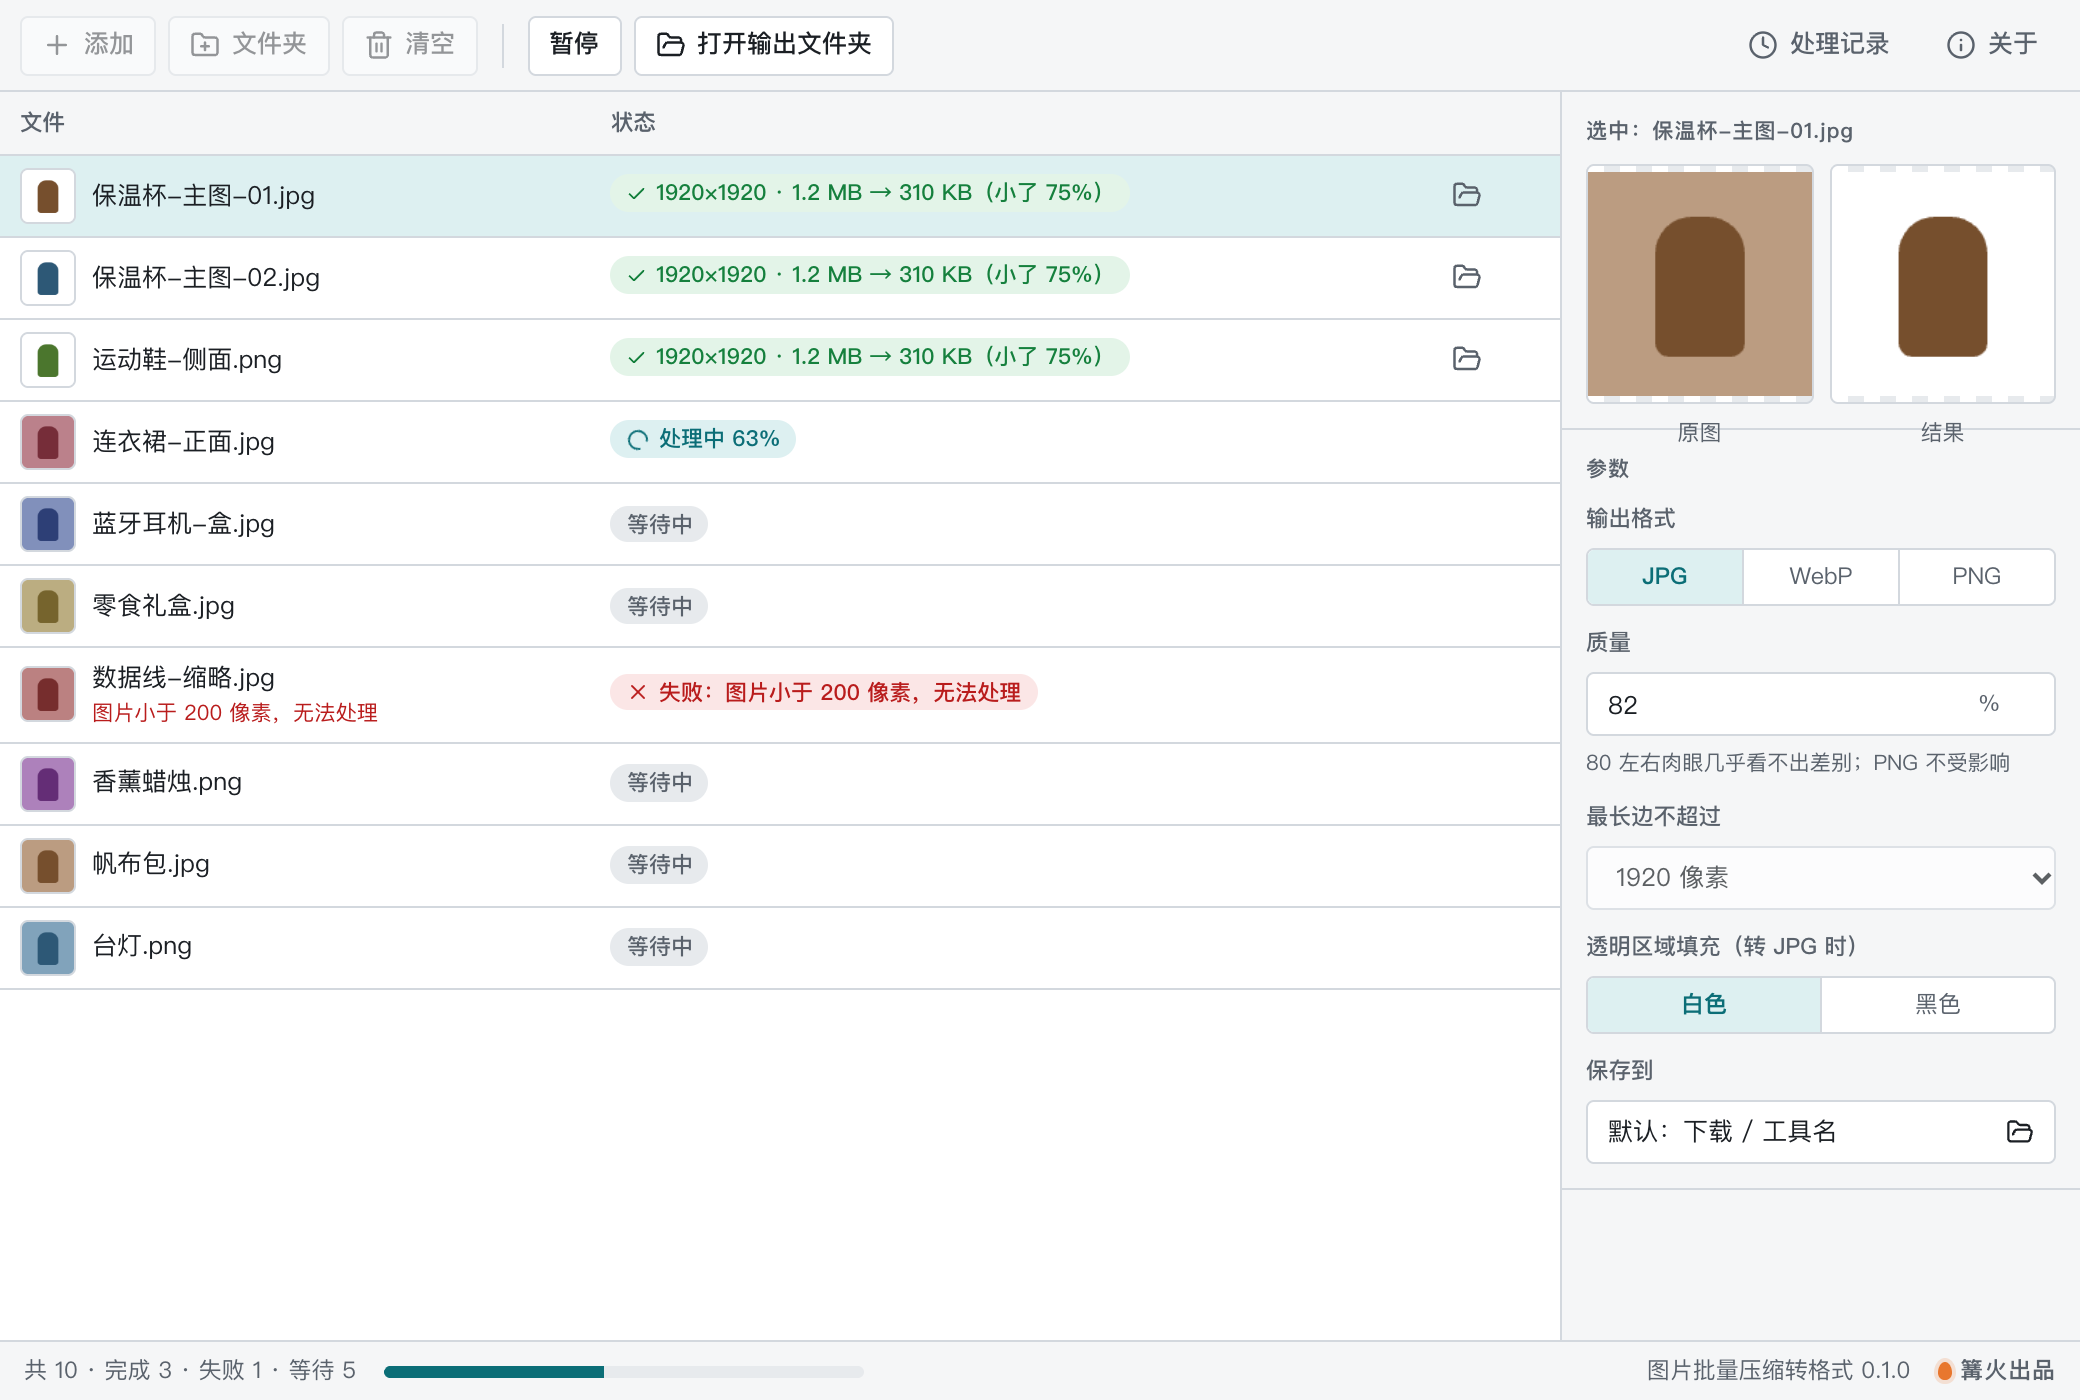
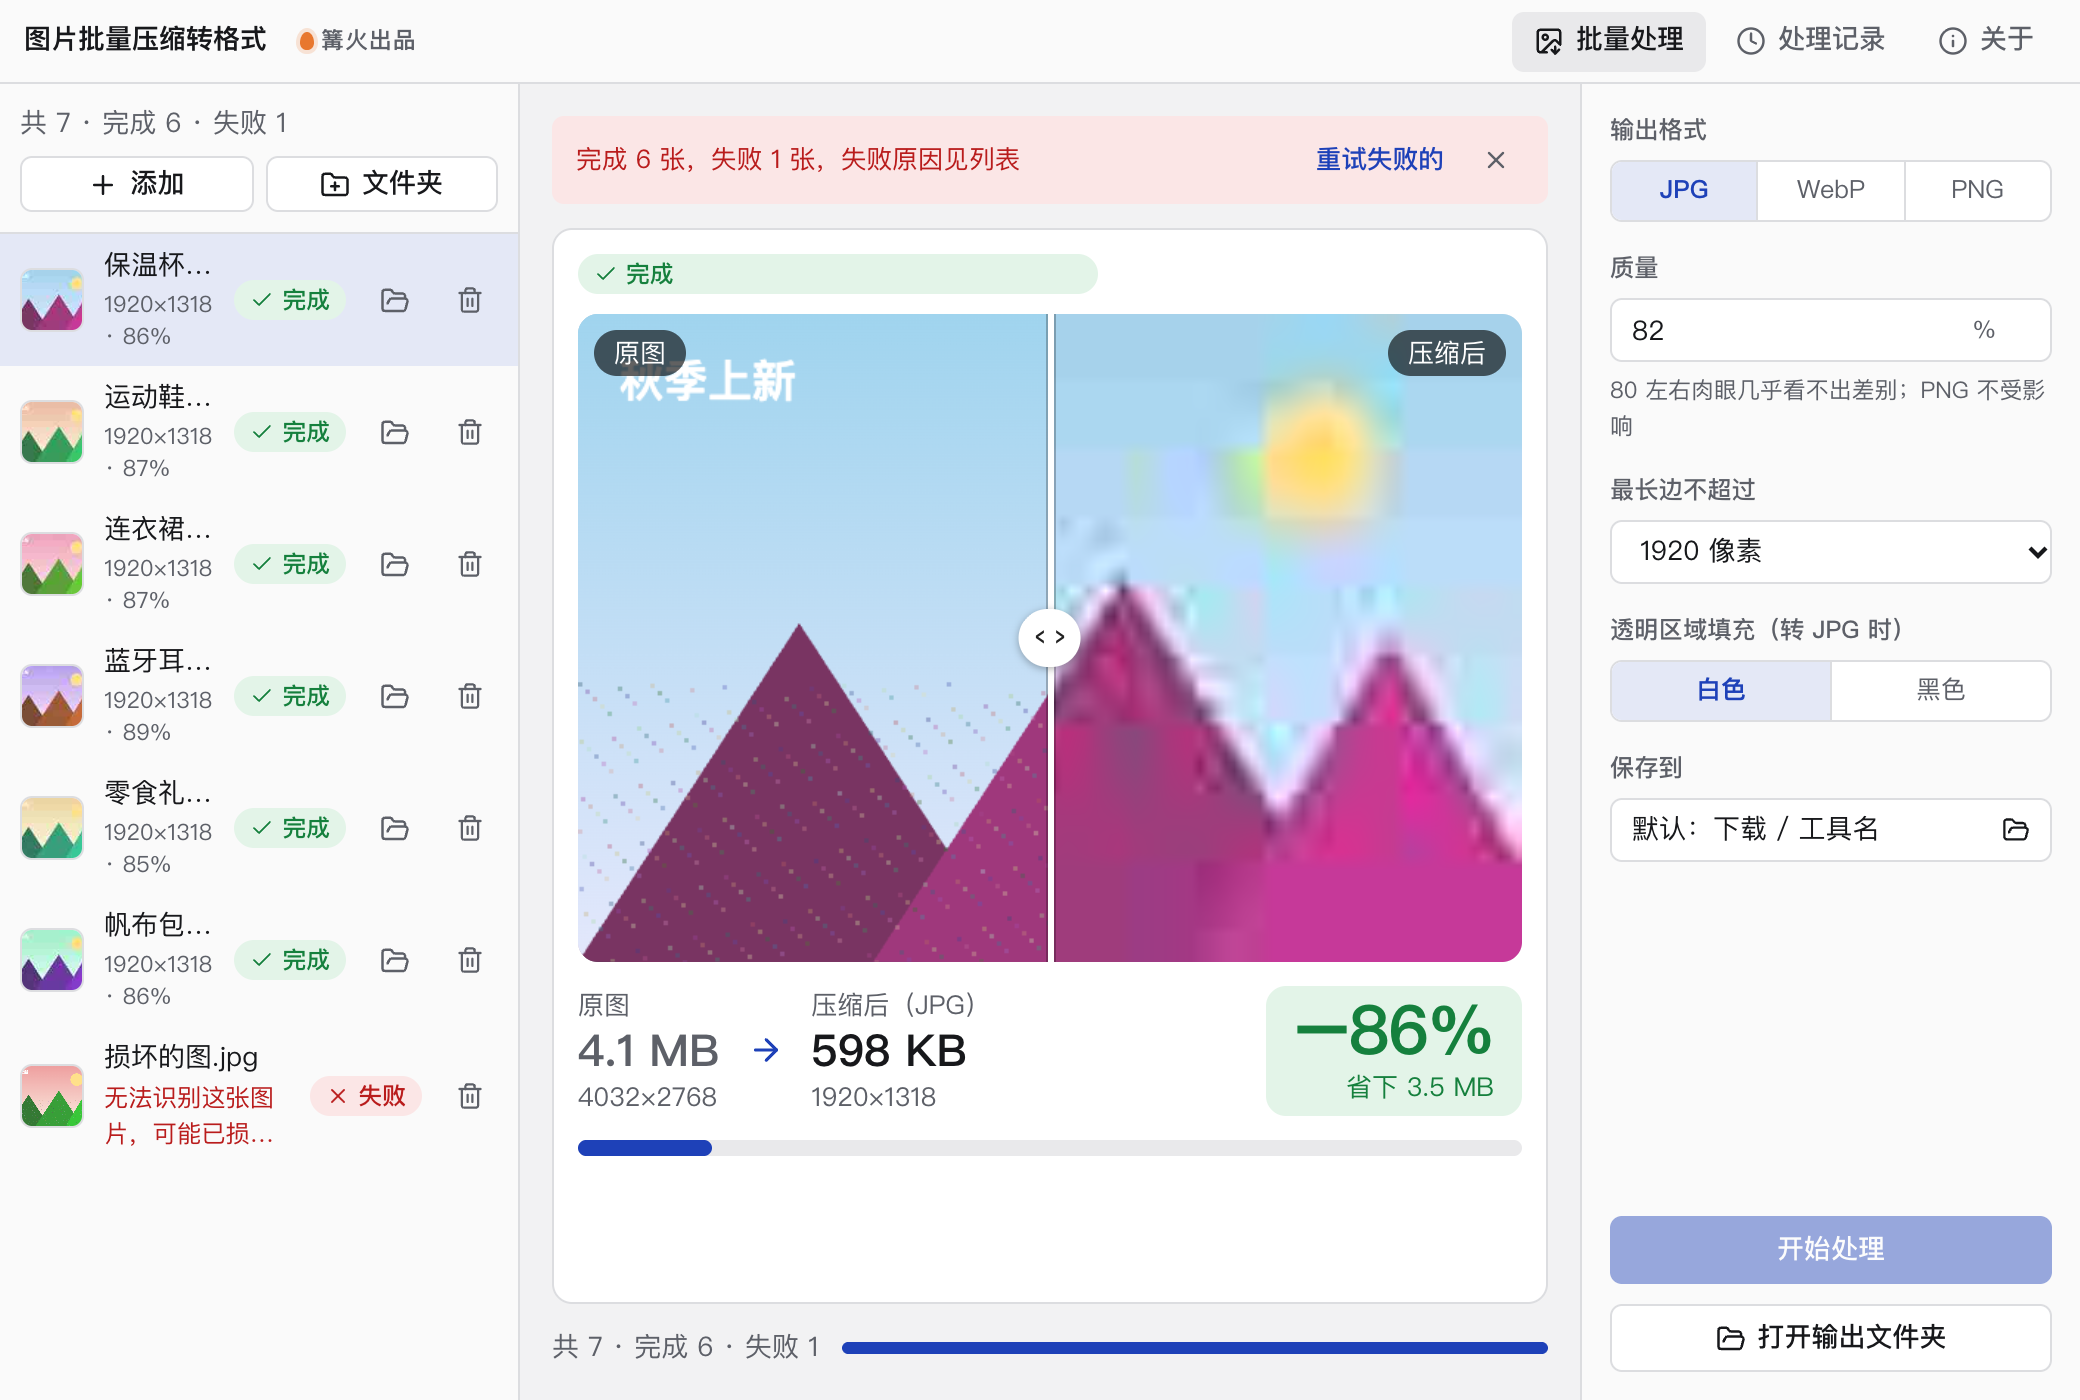
打磨 0.2.0：左右拖动对比原图与压缩后、大字显示省了多少、新空状态

diff --git a/src/tool/tool.css b/src/tool/tool.css
@@ -1,0 +1,42 @@
+/* 图片批量压缩：左右拖动对比 + 大字省了多少；只用 kit.css 变量，适配亮暗色 */
+.ic-empty { display: grid; justify-items: center; gap: 14px; padding: 20px; max-width: 560px; margin: auto; text-align: center; font-size: 14px; }
+.ic-empty > svg { width: 100%; max-width: 480px; height: auto; }
+.ic-photo { fill: var(--chip); stroke: var(--line-strong); stroke-width: 1.5; }
+.ic-photo.big { fill: var(--primary-soft); stroke: var(--primary); }
+.ic-sun { fill: var(--warn); }
+.ic-hill { fill: var(--primary); opacity: .55; }
+.ic-arrow { fill: none; stroke: var(--primary); stroke-width: 3; stroke-linecap: round; stroke-linejoin: round; }
+.ic-cap { fill: var(--primary); font-size: 14px; font-weight: 700; }
+.ic-size { fill: var(--muted); font-size: 14px; font-weight: 600; }
+.ic-size.big { fill: var(--ink); font-size: 16px; font-weight: 700; }
+.ic-fmt rect { fill: var(--surface); stroke: var(--line-strong); }
+.ic-fmt text { fill: var(--ink); font-size: 13px; font-weight: 600; }
+.ic-knobs { list-style: none; margin: 0; padding: 0; display: grid; gap: 6px; width: 100%; max-width: 440px; text-align: left; }
+.ic-knobs li { display: grid; grid-template-columns: 20px 64px 1fr; align-items: center; gap: 8px; padding: 6px 12px; border-radius: min(var(--radius), 10px); background: var(--chip); }
+.ic-knobs svg { color: var(--primary); }
+.ic-knobs span { color: var(--muted); font-size: 13px; }
+.ic-title { margin: 4px 0 0; font-size: 20px; }
+.ic-act { margin: 0; display: inline-flex; align-items: center; gap: 6px; color: var(--muted); font-size: 13px; }
+
+.ic-res { display: grid; gap: 12px; width: 100%; min-width: 0; font-size: 14px; }
+.ic-cmp { position: relative; width: 100%; max-height: 52vh; border-radius: var(--radius-lg); overflow: hidden; background: var(--chip); user-select: none; margin: 0 auto; }
+.ic-img { position: absolute; inset: 0; width: 100%; height: 100%; object-fit: cover; display: block; }
+.ic-cmp > input[type=range] { position: absolute; inset: 0; width: 100%; height: 100%; opacity: 0; cursor: ew-resize; margin: 0; }
+.ic-handle { position: absolute; top: 0; bottom: 0; width: 3px; margin-left: -1.5px; background: #fff; box-shadow: 0 0 0 1px rgba(0,0,0,.25); pointer-events: none; transition: left 60ms linear; }
+.ic-handle::after { content: '‹ ›'; position: absolute; top: 50%; left: 50%; transform: translate(-50%, -50%); padding: 4px 8px; border-radius: 999px; background: #fff; color: #222; font-weight: 700; font-size: 14px; box-shadow: 0 1px 4px rgba(0,0,0,.3); white-space: nowrap; }
+.ic-tag { position: absolute; top: 8px; padding: 2px 10px; border-radius: 999px; background: rgba(0,0,0,.62); color: #fff; font-size: 13px; pointer-events: none; }
+.ic-tag.l { left: 8px; } .ic-tag.r { right: 8px; }
+
+.ic-stat { display: flex; flex-wrap: wrap; align-items: center; gap: 10px 14px; }
+.ic-from { display: grid; gap: 1px; }
+.ic-from small { color: var(--muted); font-size: 13px; }
+.ic-from b { font-size: 22px; line-height: 1.1; color: var(--muted); }
+.ic-from span { color: var(--muted); font-size: 13px; }
+.ic-from.now b { color: var(--ink); }
+.ic-to-arrow { color: var(--primary); flex: none; }
+.ic-save { margin-left: auto; display: grid; justify-items: end; padding: 4px 14px; border-radius: var(--radius-lg); background: var(--ok-soft); color: var(--ok); }
+.ic-save b { font-size: 34px; line-height: 1.1; font-weight: 800; letter-spacing: -.02em; }
+.ic-save small { font-size: 13px; }
+.ic-save.bad { background: var(--warn-soft); color: var(--warn); }
+.ic-bar { height: 8px; border-radius: 999px; background: var(--chip); overflow: hidden; }
+.ic-bar i { display: block; height: 100%; border-radius: 999px; background: var(--primary); transition: width 200ms ease; }

diff --git a/src/tool/preview.ts b/src/tool/preview.ts
@@ -1,0 +1,51 @@
+// 截图与预览用的示例数据（不会进入正式运行）
+import type { Row } from '../kit/runner';
+import type { Stat } from './Result';
+
+function scene(hue: number, q: number | null): string {
+  const c = document.createElement('canvas');
+  c.width = 640; c.height = 440;
+  const g = c.getContext('2d')!;
+  const sky = g.createLinearGradient(0, 0, 0, 440);
+  sky.addColorStop(0, `hsl(${hue} 70% 78%)`); sky.addColorStop(1, `hsl(${hue + 30} 80% 94%)`);
+  g.fillStyle = sky; g.fillRect(0, 0, 640, 440);
+  g.fillStyle = '#FFE08A'; g.beginPath(); g.arc(500, 100, 46, 0, 7); g.fill();
+  [[0, 330, 300], [200, 300, 340], [420, 340, 260]].forEach(([x, y, w], i) => {
+    g.fillStyle = `hsl(${hue + 120} ${40 + i * 8}% ${34 + i * 8}%)`;
+    g.beginPath(); g.moveTo(x, 440); g.lineTo(x + w / 2, y - 120); g.lineTo(x + w, 440); g.fill();
+  });
+  for (let i = 0; i < 700; i++) { // 细节噪点：压缩后会糊掉
+    g.fillStyle = `hsla(${hue + i * 7} 40% ${30 + (i % 50)}% / .35)`;
+    g.fillRect((i * 97) % 640, 250 + ((i * 53) % 190), 3, 3);
+  }
+  g.fillStyle = '#fff'; g.font = 'bold 30px sans-serif'; g.fillText('秋季上新', 28, 56);
+  if (q === null) return c.toDataURL('image/png');
+  const small = document.createElement('canvas');
+  small.width = 110; small.height = 76;
+  small.getContext('2d')!.drawImage(c, 0, 0, 110, 76);
+  return small.toDataURL('image/jpeg', q);
+}
+
+const files: [string, number, number, Row['status'], number][] = [
+  ['保温杯-主图-01.jpg', 4_280_000, 612_000, 'ok', 200],
+  ['运动鞋-侧面.png', 6_900_000, 880_000, 'ok', 20],
+  ['连衣裙-正面.jpg', 3_150_000, 420_000, 'ok', 340],
+  ['蓝牙耳机-盒.jpg', 2_700_000, 310_000, 'ok', 260],
+  ['零食礼盒.jpg', 5_100_000, 740_000, 'run', 40],
+  ['帆布包.jpg', 1_900_000, 0, 'wait', 150],
+  ['损坏的图.jpg', 12_000, 0, 'err', 0],
+];
+
+export const rows = (state: string): Row[] => state === 'empty' ? [] : files.map(([name, before, after, status, hue], i) => {
+  const st = state === 'done' && status !== 'err' ? 'ok' : status;
+  const stat: Stat = { before, after: after || Math.round(before * 0.14), sw: 4032, sh: 2768, w: 1920, h: 1318, format: 'jpg' };
+  return {
+    item: { id: `p${i}`, name, path: scene(hue, null), size: before },
+    status: st,
+    progress: st === 'run' ? 0.6 : st === 'ok' ? 1 : 0,
+    error: st === 'err' ? '无法识别这张图片，可能已损坏或格式不受支持' : undefined,
+    result: st === 'ok' ? { preview: scene(hue, 0.22), outputPath: `/示例/输出/${name}`, summary: `1920×1318 · ${Math.round((1 - stat.after / before) * 100)}%`, data: stat } : undefined,
+  };
+});
+export const params = {};
+export const notice = { kind: 'err' as const, text: '完成 6 张，失败 1 张，失败原因见列表' };

diff --git a/src/tool/Result.tsx b/src/tool/Result.tsx
@@ -1,0 +1,44 @@
+// 单张图片的压缩结果：原图与压缩后拖动对比，下方用大字显示省了多少
+import { useState } from 'react';
+import { ArrowRight } from 'lucide-react';
+import type { InputItem, ItemResult } from '../kit/types';
+import { fileSrc } from '../kit/platform';
+import { formatBytes } from './core';
+import './tool.css';
+
+export interface Stat { before: number; after: number; sw: number; sh: number; w: number; h: number; format: string }
+
+const FMT: Record<string, string> = { jpg: 'JPG', png: 'PNG', webp: 'WebP' };
+
+export function ResultBody({ item, result }: { item: InputItem; result: ItemResult }) {
+  const st = result.data as Stat | undefined;
+  const [pos, setPos] = useState(50);
+  const before = st?.before ?? item.size ?? 0;
+  const saved = st && before ? Math.round((1 - st.after / before) * 100) : null;
+  const orig = item.path;
+  const out = result.preview;
+  return (
+    <div className="ic-res">
+      {orig && out && (
+        <div className="ic-cmp" style={{ aspectRatio: st ? `${st.w} / ${st.h}` : '4 / 3' }}>
+          <img className="ic-img" src={fileSrc(out)} alt="压缩后" />
+          <img className="ic-img top" src={fileSrc(orig)} alt="原图" style={{ clipPath: `inset(0 ${100 - pos}% 0 0)` }} />
+          <span className="ic-tag l">原图</span>
+          <span className="ic-tag r">压缩后</span>
+          <span className="ic-handle" style={{ left: `${pos}%` }} aria-hidden="true" />
+          <input type="range" min={0} max={100} value={pos} aria-label="拖动对比原图和压缩后" onChange={(e) => setPos(Number(e.target.value))} />
+        </div>
+      )}
+      <div className="ic-stat">
+        <div className="ic-from"><small>原图</small><b className="k-num">{formatBytes(before)}</b>{st && <span className="k-num">{st.sw}×{st.sh}</span>}</div>
+        <ArrowRight size={18} className="ic-to-arrow" />
+        <div className="ic-from now"><small>压缩后{st ? `（${FMT[st.format] ?? st.format}）` : ''}</small><b className="k-num">{st ? formatBytes(st.after) : '—'}</b>{st && <span className="k-num">{st.w}×{st.h}</span>}</div>
+        <div className={`ic-save${saved !== null && saved <= 0 ? ' bad' : ''}`}>
+          <b className="k-num">{saved === null ? '' : saved > 0 ? `−${saved}%` : saved < 0 ? `+${-saved}%` : '0%'}</b>
+          <small>{saved === null ? result.summary : saved > 0 ? `省下 ${formatBytes(before - (st?.after ?? 0))}` : '没有变小'}</small>
+        </div>
+      </div>
+      {st && <div className="ic-bar" role="img" aria-label={`压缩后占原图的 ${100 - (saved ?? 0)}%`}><i style={{ width: `${Math.min(100, Math.max(2, (st.after / before) * 100))}%` }} /></div>}
+    </div>
+  );
+}

diff --git a/src/tool/Empty.tsx b/src/tool/Empty.tsx
@@ -1,0 +1,40 @@
+// 空状态：画出「一张大图 → 一张小图」，写清支持的格式和三个可调的东西
+import { Gauge, Maximize2, Repeat2, Upload } from 'lucide-react';
+import './tool.css';
+
+function Photo({ x, y, w, h, big }: { x: number; y: number; w: number; h: number; big?: boolean }) {
+  return (
+    <g>
+      <rect x={x} y={y} width={w} height={h} rx="8" className={big ? 'ic-photo big' : 'ic-photo'} />
+      <circle cx={x + w * 0.74} cy={y + h * 0.27} r={h * 0.1} className="ic-sun" />
+      <path d={`M${x} ${y + h * 0.8} L${x + w * 0.32} ${y + h * 0.42} L${x + w * 0.55} ${y + h * 0.68} L${x + w * 0.7} ${y + h * 0.55} L${x + w} ${y + h * 0.82} V${y + h - 8} Q${x + w} ${y + h} ${x + w - 8} ${y + h} H${x + 8} Q${x} ${y + h} ${x} ${y + h - 8} Z`} className="ic-hill" />
+    </g>
+  );
+}
+
+export function Empty({ hover }: { hover: boolean }) {
+  return (
+    <div className="ic-empty">
+      <svg viewBox="0 0 420 160" role="img" aria-label="一张 4.2 MB 的大图压成 620 KB 的小图，画面几乎看不出差别">
+        <Photo x={10} y={14} w={150} h={112} big />
+        <text x="85" y="150" textAnchor="middle" className="ic-size big">4.2 MB</text>
+        <path d="M176 74 H212 M203 65 L214 74 L203 83" className="ic-arrow" />
+        <text x="195" y="56" textAnchor="middle" className="ic-cap">小了 85%</text>
+        <Photo x={232} y={40} w={96} h={68} />
+        <text x="280" y="128" textAnchor="middle" className="ic-size">620 KB</text>
+        <g className="ic-fmt">
+          <rect x="350" y="30" width="56" height="22" rx="11" /><text x="378" y="45" textAnchor="middle">JPG</text>
+          <rect x="350" y="62" width="56" height="22" rx="11" /><text x="378" y="77" textAnchor="middle">WebP</text>
+          <rect x="350" y="94" width="56" height="22" rx="11" /><text x="378" y="109" textAnchor="middle">PNG</text>
+        </g>
+      </svg>
+      <ul className="ic-knobs">
+        <li><Gauge size={16} /><b>质量</b><span>默认 82%，肉眼几乎看不出差别</span></li>
+        <li><Maximize2 size={16} /><b>最长边</b><span>过大的图缩到 1920 像素以内</span></li>
+        <li><Repeat2 size={16} /><b>格式</b><span>可转成 JPG、WebP、PNG</span></li>
+      </ul>
+      <h2 className="ic-title">{hover ? '松开鼠标，开始添加' : '把图片拖进来'}</h2>
+      <p className="ic-act"><Upload size={15} />支持 JPG、PNG、WebP、BMP、GIF，也可以拖入整个文件夹；原图不会被改动</p>
+    </div>
+  );
+}

diff --git a/src/tool/index.ts b/src/tool/index.ts
@@ -1,6 +1,9 @@
 // 工具声明：图片批量压缩 / 转格式（在本机用浏览器引擎完成，不联网）。
 import { ImageDown as ImageDownAsIcon } from 'lucide-react';
 import type { BatchTool } from '../kit/types';
+import { Empty } from './Empty';
+import { ResultBody } from './Result';
+import type { Stat } from './Result';
 import { MIME, fitSize, outputName, sizeChange, type OutFormat } from './core';
 
 const IMAGE_EXT = ['jpg', 'jpeg', 'png', 'webp', 'bmp', 'gif'];
@@ -28,7 +31,7 @@ export async function encode(bytes: Uint8Array, format: OutFormat, quality: numb
     g.drawImage(img, 0, 0, w, h);
     const blob = await new Promise<Blob | null>((ok) => canvas.toBlob(ok, MIME[format], format === 'png' ? undefined : quality / 100));
     if (!blob) throw new Error('编码失败，图片可能太大');
-    return { data: new Uint8Array(await blob.arrayBuffer()), w, h };
+    return { data: new Uint8Array(await blob.arrayBuffer()), w, h, sw: img.naturalWidth, sh: img.naturalHeight };
   } finally {
     URL.revokeObjectURL(url);
   }
@@ -43,6 +46,8 @@ const tool: BatchTool = {
   type: 'media',
   mode: 'batch',
   resultView: 'list',
+  Empty,
+  ResultBody,
   concurrency: 3,
   accept: { label: '图片', extensions: IMAGE_EXT },
   params: [
@@ -57,11 +62,12 @@ const tool: BatchTool = {
     const format = ctx.params.format as OutFormat;
     const src = await ctx.readFile(item.path!);
     ctx.progress(0.3);
-    const { data, w, h } = await encode(src, format, Number(ctx.params.quality), Number(ctx.params.maxSide), String(ctx.params.bg));
+    const { data, w, h, sw, sh } = await encode(src, format, Number(ctx.params.quality), Number(ctx.params.maxSide), String(ctx.params.bg));
     ctx.progress(0.8);
     const outputPath = await ctx.join(ctx.outputDir, outputName(item.name, format));
     await ctx.writeFile(outputPath, data);
-    return { outputPath, preview: outputPath, summary: `${w}×${h} · ${sizeChange(src.length, data.length)}` };
+    const stat: Stat = { before: src.length, after: data.length, sw, sh, w, h, format };
+    return { outputPath, preview: outputPath, summary: `${w}×${h} · ${sizeChange(src.length, data.length)}`, data: stat };
   },
 };
 

diff --git a/CHANGELOG.md b/CHANGELOG.md
@@ -1,5 +1,12 @@
 # 更新记录
 
+## 0.2.0
+
+- 重做主界面：布局换成「左列表、右大预览」，选中图片后可左右拖动对比原图和压缩后，并用大字显示省了多少。
+- 空状态改成「大图 → 小图」示意，写清质量、最长边、格式三个可调项。
+- 主色换为深蓝。
+- 功能和数据格式不变。
+
 ## 0.1.1
 
 - 换成篝火图标，界面加入「篝火出品」归属标识。
